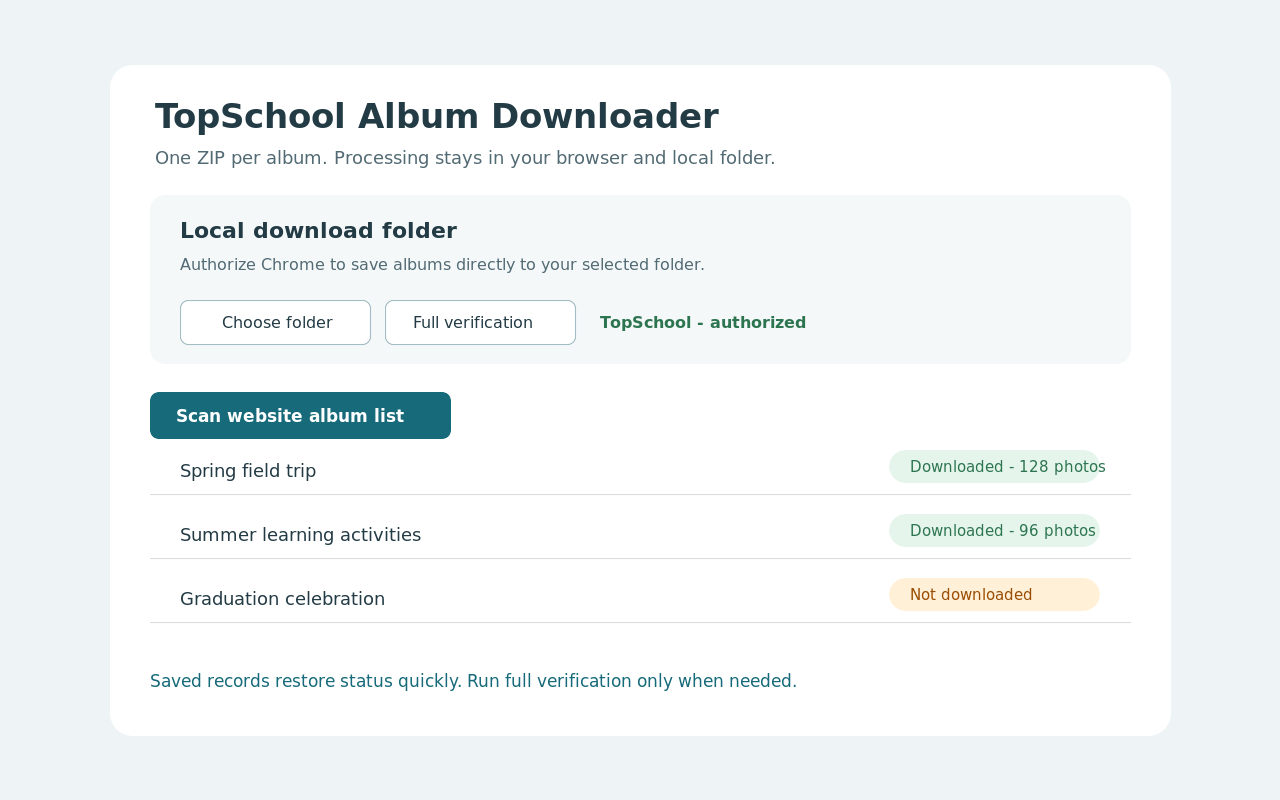
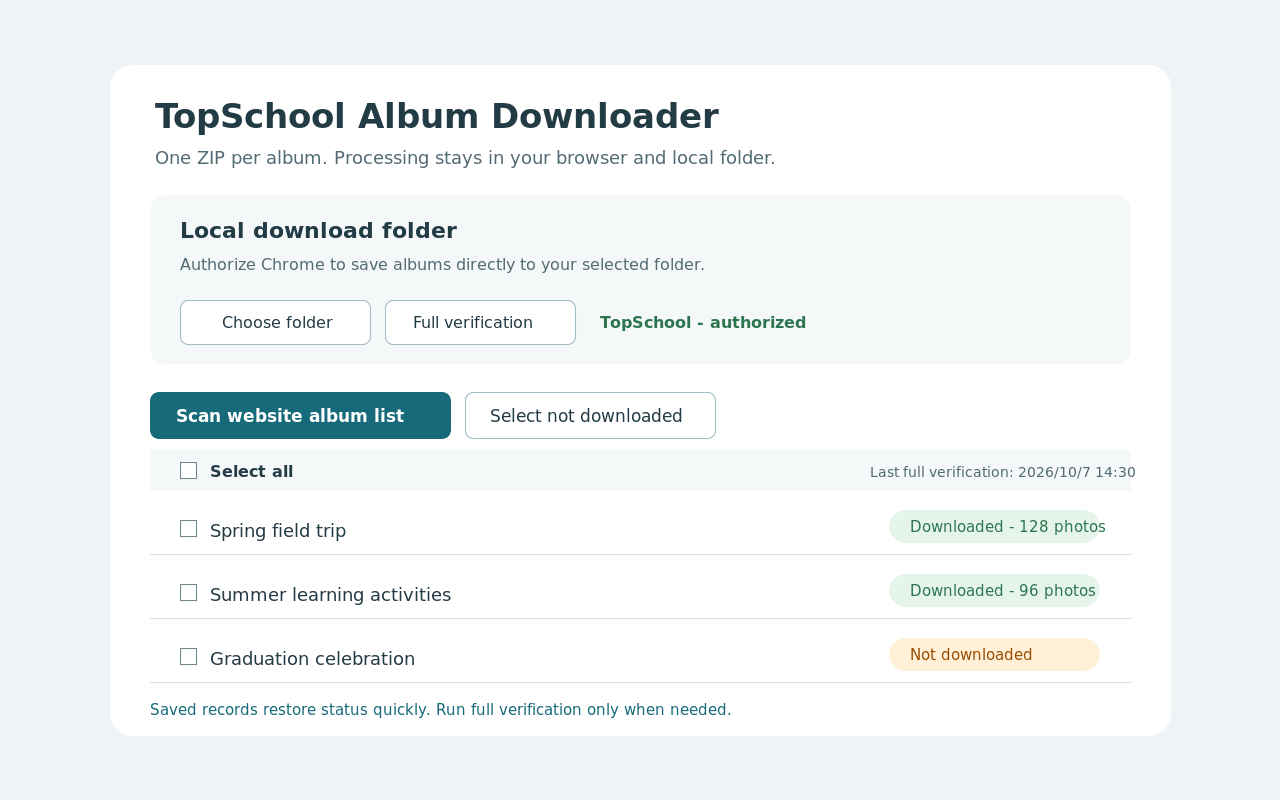
TopSchool Album Enhancer - 20261007.0.3.1
功能調整
- Replace the select-all and clear-selection buttons with a list header checkbox
- Add an indeterminate state for partially selected albums
- Add an action to select albums not marked as downloaded
- Show the latest full verification time in the album list header
- Store the full verification time separately for each school domain
- Hide batch-selection controls on single-album pages
- Update the Chrome Web Store screenshot for the new selection layout

Bug 修正
- Fix confusing batch-selection controls on single-album pages
- Fix inconsistent selection controls between the action bar and album list

diff --git a/download.js b/download.js
@@ -1,8 +1,9 @@
 const $=id=>document.getElementById(id);
 const INDEX_FILE='topschool-album-downloads.json';
-let controller,albums=[],running=false,history={},directoryHandle,directoryPermission='unknown',directoryFiles=new Map();
+let controller,albums=[],running=false,history={},directoryHandle,directoryPermission='unknown',directoryFiles=new Map(),lastFullScanAt=null,fullScanTimes={};
 const source=TS.allowed(new URL(location.href).searchParams.get('source')).href;
 const siteKey=new URL(source).hostname;
+const detailPage=new URL(source).pathname.endsWith('School-Album-Detail');
 
 function status(message){$('status').textContent=message;}
 function albumKey(album){return `${siteKey}:${album.id}`;}
@@ -11,7 +12,7 @@ function storageSet(values){return new Promise(resolve=>chrome.storage.local.set
 function storageRemove(keys){return new Promise(resolve=>chrome.storage.local.remove(keys,resolve));}
 function lock(value){
  running=value;
- for(const id of ['scan','all','none','start','refresh-directory','choose-directory'])$(id).disabled=value;
+ for(const id of ['scan','select-undownloaded','start','refresh-directory','choose-directory'])$(id).disabled=value;
  $('cancel').disabled=!value;
  for(const input of document.querySelectorAll('input'))input.disabled=value;
 }
@@ -131,21 +132,33 @@ async function verifyExistingAlbums(signal){
 }
 
 async function loadSettings(){
- const saved=await storageGet(['skipDownloaded','downloadedAlbums']);
+ const saved=await storageGet(['skipDownloaded','downloadedAlbums','fullScanTimes']);
  $('skip-downloaded').checked=saved.skipDownloaded!==false;
  history=saved.downloadedAlbums&&typeof saved.downloadedAlbums==='object'?saved.downloadedAlbums:{};
+ fullScanTimes=saved.fullScanTimes&&typeof saved.fullScanTimes==='object'?saved.fullScanTimes:{};lastFullScanAt=fullScanTimes[siteKey]||null;
  await storageRemove('directoryLabel');
  await loadDirectory();
 }
 async function saveSettings(){await storageSet({skipDownloaded:$('skip-downloaded').checked});}
 function formatDate(iso){try{return new Intl.DateTimeFormat('zh-TW',{dateStyle:'short',timeStyle:'short'}).format(new Date(iso));}catch{return iso;}}
+function updateSelectAll(){
+ const selectAll=$('select-all'),boxes=[...document.querySelectorAll('#list .album-row input')];if(!selectAll)return;
+ const selected=boxes.filter(box=>box.checked).length;selectAll.checked=boxes.length>0&&selected===boxes.length;selectAll.indeterminate=selected>0&&selected<boxes.length;
+}
 function render(){
  $('list').replaceChildren();
  const skip=$('skip-downloaded').checked;
+ if(!detailPage&&albums.length){
+  const header=document.createElement('div'),label=document.createElement('label'),box=document.createElement('input'),text=document.createElement('span'),scanTime=document.createElement('span');
+  header.className='list-header';box.type='checkbox';box.id='select-all';text.textContent='全選';scanTime.className='last-scan';scanTime.textContent=`上次完整掃描：${lastFullScanAt?formatDate(lastFullScanAt):'尚未執行'}`;
+  box.onchange=()=>{document.querySelectorAll('#list .album-row input').forEach(input=>input.checked=box.checked);updateSelectAll();};label.append(box,text);header.append(label,scanTime);$('list').append(header);
+ }
  albums.forEach((album,index)=>{
   const label=document.createElement('label'),box=document.createElement('input'),title=document.createElement('span');
   const record=history[albumKey(album)];
+  label.className='album-row';
   box.type='checkbox';box.value=index;box.checked=!(skip&&record?.verified);
+  box.onchange=updateSelectAll;
   title.className='album-name';title.textContent=album.name;label.append(box,title);
   if(record){
    const badge=document.createElement('span');badge.className=record.verified?'downloaded':'incomplete';
@@ -154,6 +167,7 @@ function render(){
   }
   $('list').append(label);
  });
+ updateSelectAll();
  $('start').disabled=running||!albums.length;
 }
 async function scanAlbumList(signal){
@@ -177,8 +191,7 @@ async function scan(){
 }
 
 $('scan').onclick=scan;
-$('all').onclick=()=>document.querySelectorAll('#list input').forEach(input=>input.checked=true);
-$('none').onclick=()=>document.querySelectorAll('#list input').forEach(input=>input.checked=false);
+$('select-undownloaded').onclick=()=>{document.querySelectorAll('#list .album-row input').forEach(input=>input.checked=!history[albumKey(albums[Number(input.value)])]?.verified);updateSelectAll();};
 $('cancel').onclick=()=>controller?.abort();
 $('choose-directory').onclick=async()=>{try{await authorizeOrChooseDirectory();status(`下載位置已設為「${directoryHandle.name}」`);}catch(error){if(error.name!=='AbortError')status(error.message);}};
 $('refresh-directory').onclick=async()=>{
@@ -186,7 +199,7 @@ $('refresh-directory').onclick=async()=>{
  try{
   await ensureDirectory();
   if(!albums.length&&new URL(source).pathname.endsWith('School-Albums'))await scanAlbumList(controller.signal);
-  await syncDirectory();await verifyExistingAlbums(controller.signal);await writeIndex();await storageSet({downloadedAlbums:history});render();
+  await syncDirectory();await verifyExistingAlbums(controller.signal);await writeIndex();lastFullScanAt=new Date().toISOString();fullScanTimes[siteKey]=lastFullScanAt;await storageSet({downloadedAlbums:history,fullScanTimes});render();
   const downloaded=albums.filter(album=>history[albumKey(album)]?.verified).length;
   status(`完整比對完成：${albums.length} 本相簿中有 ${downloaded} 本 ZIP 與網站照片張數一致。`);
  }
@@ -211,7 +224,7 @@ async function save(blob,filename,signal){
 }
 
 $('start').onclick=async()=>{
- const selected=[...document.querySelectorAll('#list input:checked')].map(input=>albums[Number(input.value)]);
+ const selected=[...document.querySelectorAll('#list .album-row input:checked')].map(input=>albums[Number(input.value)]);
  if(!selected.length){status('請至少選擇一本相簿。');return;}
  try{await ensureDirectory();await syncDirectory();}catch(error){if(error.name!=='AbortError')status(error.message);return;}
  lock(true);controller=new AbortController();const signal=controller.signal;$('log').textContent='';
@@ -252,8 +265,8 @@ $('start').onclick=async()=>{
 (async()=>{
  const manifest=chrome.runtime.getManifest();$('version').textContent=`v${manifest.version_name||manifest.version}`;
  await loadSettings();
- if(new URL(source).pathname.endsWith('School-Album-Detail')){
-  $('scan').hidden=true;
+ if(detailPage){
+  $('scan').hidden=true;$('select-undownloaded').hidden=true;
   try{
    const doc=await TS.doc(TS.page(source,1)),url=new URL(source);
    albums=[{id:url.searchParams.get('albumId'),url:TS.page(source,1),name:doc.querySelector('h2')?.textContent.replace(/^相簿名稱\s*[:：]\s*/,'').trim()||'相簿'}];

diff --git a/download.css b/download.css
@@ -1,1 +1,1 @@
-body{font:16px system-ui;background:#eef4f5;color:#233b45;margin:0}main{position:relative;max-width:900px;margin:32px auto;padding:24px;background:white;border-radius:16px}.version{position:absolute;top:14px;right:18px;color:#71868d;font-size:12px}button{padding:10px;margin:4px;border:1px solid #a4bdc4;border-radius:6px;cursor:pointer}button:disabled{cursor:not-allowed;opacity:.6}#list label{display:flex;align-items:center;gap:8px;padding:12px;border-bottom:1px solid #ddd}#status{color:#166a79}pre{white-space:pre-wrap}.settings{display:grid;gap:12px;margin:18px 0;padding:16px;background:#f4f8f9;border-radius:10px}.setting-heading{display:flex;flex-direction:column;gap:4px}.setting-heading small{color:#526a73}.directory-row{display:grid;grid-template-columns:160px 160px minmax(0,1fr);align-items:center;gap:8px}.directory-row button{box-sizing:border-box;width:160px;height:42px;margin:0}.directory-row strong{margin-left:4px;overflow-wrap:anywhere}.settings .option{font-weight:400}.actions{margin:8px 0}.album-name{flex:1}.downloaded,.incomplete{font-size:13px;padding:3px 8px;border-radius:12px}.downloaded{color:#2d7550;background:#e5f5eb}.incomplete{color:#9a4c00;background:#fff0d7}@media(max-width:620px){main{margin:0;padding:18px;border-radius:0}.directory-row{grid-template-columns:1fr 1fr}.directory-row button{width:100%}.directory-row strong{grid-column:1/3;margin:0}}
+body{font:16px system-ui;background:#eef4f5;color:#233b45;margin:0}main{position:relative;max-width:900px;margin:32px auto;padding:24px;background:white;border-radius:16px}.version{position:absolute;top:14px;right:18px;color:#71868d;font-size:12px}button{padding:10px;margin:4px;border:1px solid #a4bdc4;border-radius:6px;cursor:pointer}button:disabled{cursor:not-allowed;opacity:.6}.album-row{display:flex;align-items:center;gap:8px;padding:12px;border-bottom:1px solid #ddd}.list-header{display:flex;align-items:center;justify-content:space-between;gap:12px;padding:10px 12px;background:#f4f8f9;border-bottom:1px solid #cfdcdf}.list-header label{display:flex;align-items:center;gap:8px;font-weight:600}.last-scan{color:#526a73;font-size:13px;text-align:right}#status{color:#166a79}pre{white-space:pre-wrap}.settings{display:grid;gap:12px;margin:18px 0;padding:16px;background:#f4f8f9;border-radius:10px}.setting-heading{display:flex;flex-direction:column;gap:4px}.setting-heading small{color:#526a73}.directory-row{display:grid;grid-template-columns:160px 160px minmax(0,1fr);align-items:center;gap:8px}.directory-row button{box-sizing:border-box;width:160px;height:42px;margin:0}.directory-row strong{margin-left:4px;overflow-wrap:anywhere}.settings .option{font-weight:400}.actions{margin:8px 0}.album-name{flex:1}.downloaded,.incomplete{font-size:13px;padding:3px 8px;border-radius:12px}.downloaded{color:#2d7550;background:#e5f5eb}.incomplete{color:#9a4c00;background:#fff0d7}@media(max-width:620px){main{margin:0;padding:18px;border-radius:0}.directory-row{grid-template-columns:1fr 1fr}.directory-row button{width:100%}.directory-row strong{grid-column:1/3;margin:0}.list-header{align-items:flex-start;flex-direction:column}.last-scan{text-align:left}}

diff --git a/download.html b/download.html
@@ -1,1 +1,1 @@
-<!doctype html><html lang="zh-Hant"><meta charset="utf-8"><title>TopSchool 相簿下載器</title><link rel="stylesheet" href="download.css"><body><main><small id="version" class="version"></small><h1>TopSchool 相簿下載器</h1><p>每本相簿各自存成 ZIP。下載期間請保持此分頁開啟。</p><section class="settings"><div class="setting-heading"><strong>設定下載至本機資料夾</strong><small>首次選擇或權限失效時，需要授權 Chrome 存取指定資料夾，才能將相簿下載至該位置。</small></div><div class="directory-row"><button id="choose-directory" type="button">選擇資料夾</button><button id="refresh-directory" type="button">完整掃描比對</button><strong id="directory-name">尚未選擇</strong></div><label class="option"><input id="skip-downloaded" type="checkbox" checked>掃描後取消勾選已下載相簿</label></section><div class="actions"><button id="scan">掃描網頁相簿列表</button><button id="all">全選</button><button id="none">取消全選</button><button id="start" disabled>下載選取相簿</button><button id="cancel" disabled>停止</button></div><p id="status" role="status"></p><div id="list"></div><pre id="log"></pre></main><script src="core.js"></script><script src="zip.js"></script><script src="download.js"></script></body></html>
+<!doctype html><html lang="zh-Hant"><meta charset="utf-8"><title>TopSchool 相簿下載器</title><link rel="stylesheet" href="download.css"><body><main><small id="version" class="version"></small><h1>TopSchool 相簿下載器</h1><p>每本相簿各自存成 ZIP。下載期間請保持此分頁開啟。</p><section class="settings"><div class="setting-heading"><strong>設定下載至本機資料夾</strong><small>首次選擇或權限失效時，需要授權 Chrome 存取指定資料夾，才能將相簿下載至該位置。</small></div><div class="directory-row"><button id="choose-directory" type="button">選擇資料夾</button><button id="refresh-directory" type="button">完整掃描比對</button><strong id="directory-name">尚未選擇</strong></div><label class="option"><input id="skip-downloaded" type="checkbox" checked>掃描後取消勾選已下載相簿</label></section><div class="actions"><button id="scan">掃描網頁相簿列表</button><button id="select-undownloaded">選取未下載相簿</button><button id="start" disabled>下載選取相簿</button><button id="cancel" disabled>停止</button></div><p id="status" role="status"></p><div id="list"></div><pre id="log"></pre></main><script src="core.js"></script><script src="zip.js"></script><script src="download.js"></script></body></html>

diff --git a/tests/verify.py b/tests/verify.py
@@ -2,8 +2,8 @@
 import json, pathlib, subprocess, tempfile, zipfile
 root = pathlib.Path(__file__).resolve().parents[1]
 manifest = json.loads((root / 'manifest.json').read_text(encoding='utf-8'))
-assert manifest['version'] == '0.3.0'
-assert manifest['version_name'] == '20261007.0.3.0'
+assert manifest['version'] == '0.3.1'
+assert manifest['version_name'] == '20261007.0.3.1'
 assert manifest['permissions'] == ['storage']
 assert 'https://*.topschool.tw/*' in manifest['host_permissions']
 assert manifest['icons']['128'] == 'icons/icon128.png'
@@ -16,11 +16,16 @@ assert 'id="path-label"' not in download_html
 assert '設定下載至本機資料夾' in download_html
 assert '掃描網頁相簿列表' in download_html
 assert '完整掃描比對' in download_html
+assert 'id="select-undownloaded"' in download_html
+assert 'id="all"' not in download_html and 'id="none"' not in download_html
 assert 'Chrome 只提供資料夾名稱' not in download_html
 assert "const INDEX_FILE='topschool-album-downloads.json'" in download_js
 assert "history=saved.downloadedAlbums&&typeof saved.downloadedAlbums==='object'?saved.downloadedAlbums:{}" in download_js
 assert 'await scanAlbumList(controller.signal);render();' in download_js
 assert 'if(!albums.length&&new URL(source).pathname.endsWith' in download_js
+assert "box.id='select-all'" in download_js
+assert 'fullScanTimes[siteKey]=lastFullScanAt' in download_js
+assert "'#list .album-row input:checked'" in download_js
 assert 'location.replace(TS.page(source,1))' in content_js
 assert "document.querySelectorAll('.pagination').forEach(x=>x.remove())" in content_js
 assert '.pagination{display:none!important}' in content_css

diff --git a/CHANGELOG.md b/CHANGELOG.md
@@ -1,4 +1,11 @@
 # Changelog
+## 20261007.0.3.1 — 2026-10-07
+- Replace the separate select-all and clear-selection buttons with a Gmail-style list header checkbox.
+- Add an indeterminate checkbox state when only some albums are selected.
+- Add a single action for selecting albums not marked as downloaded.
+- Hide batch-selection controls on single-album download pages.
+- Show the most recent full verification time in the list header and store it separately for each school domain.
+
 ## 20261007.0.3.0 — 2026-10-07
 - Extend album browsing and downloading from one school host to supported album paths on all TopSchool subdomains.
 - Keep original-photo access limited to the verified image CDN.
